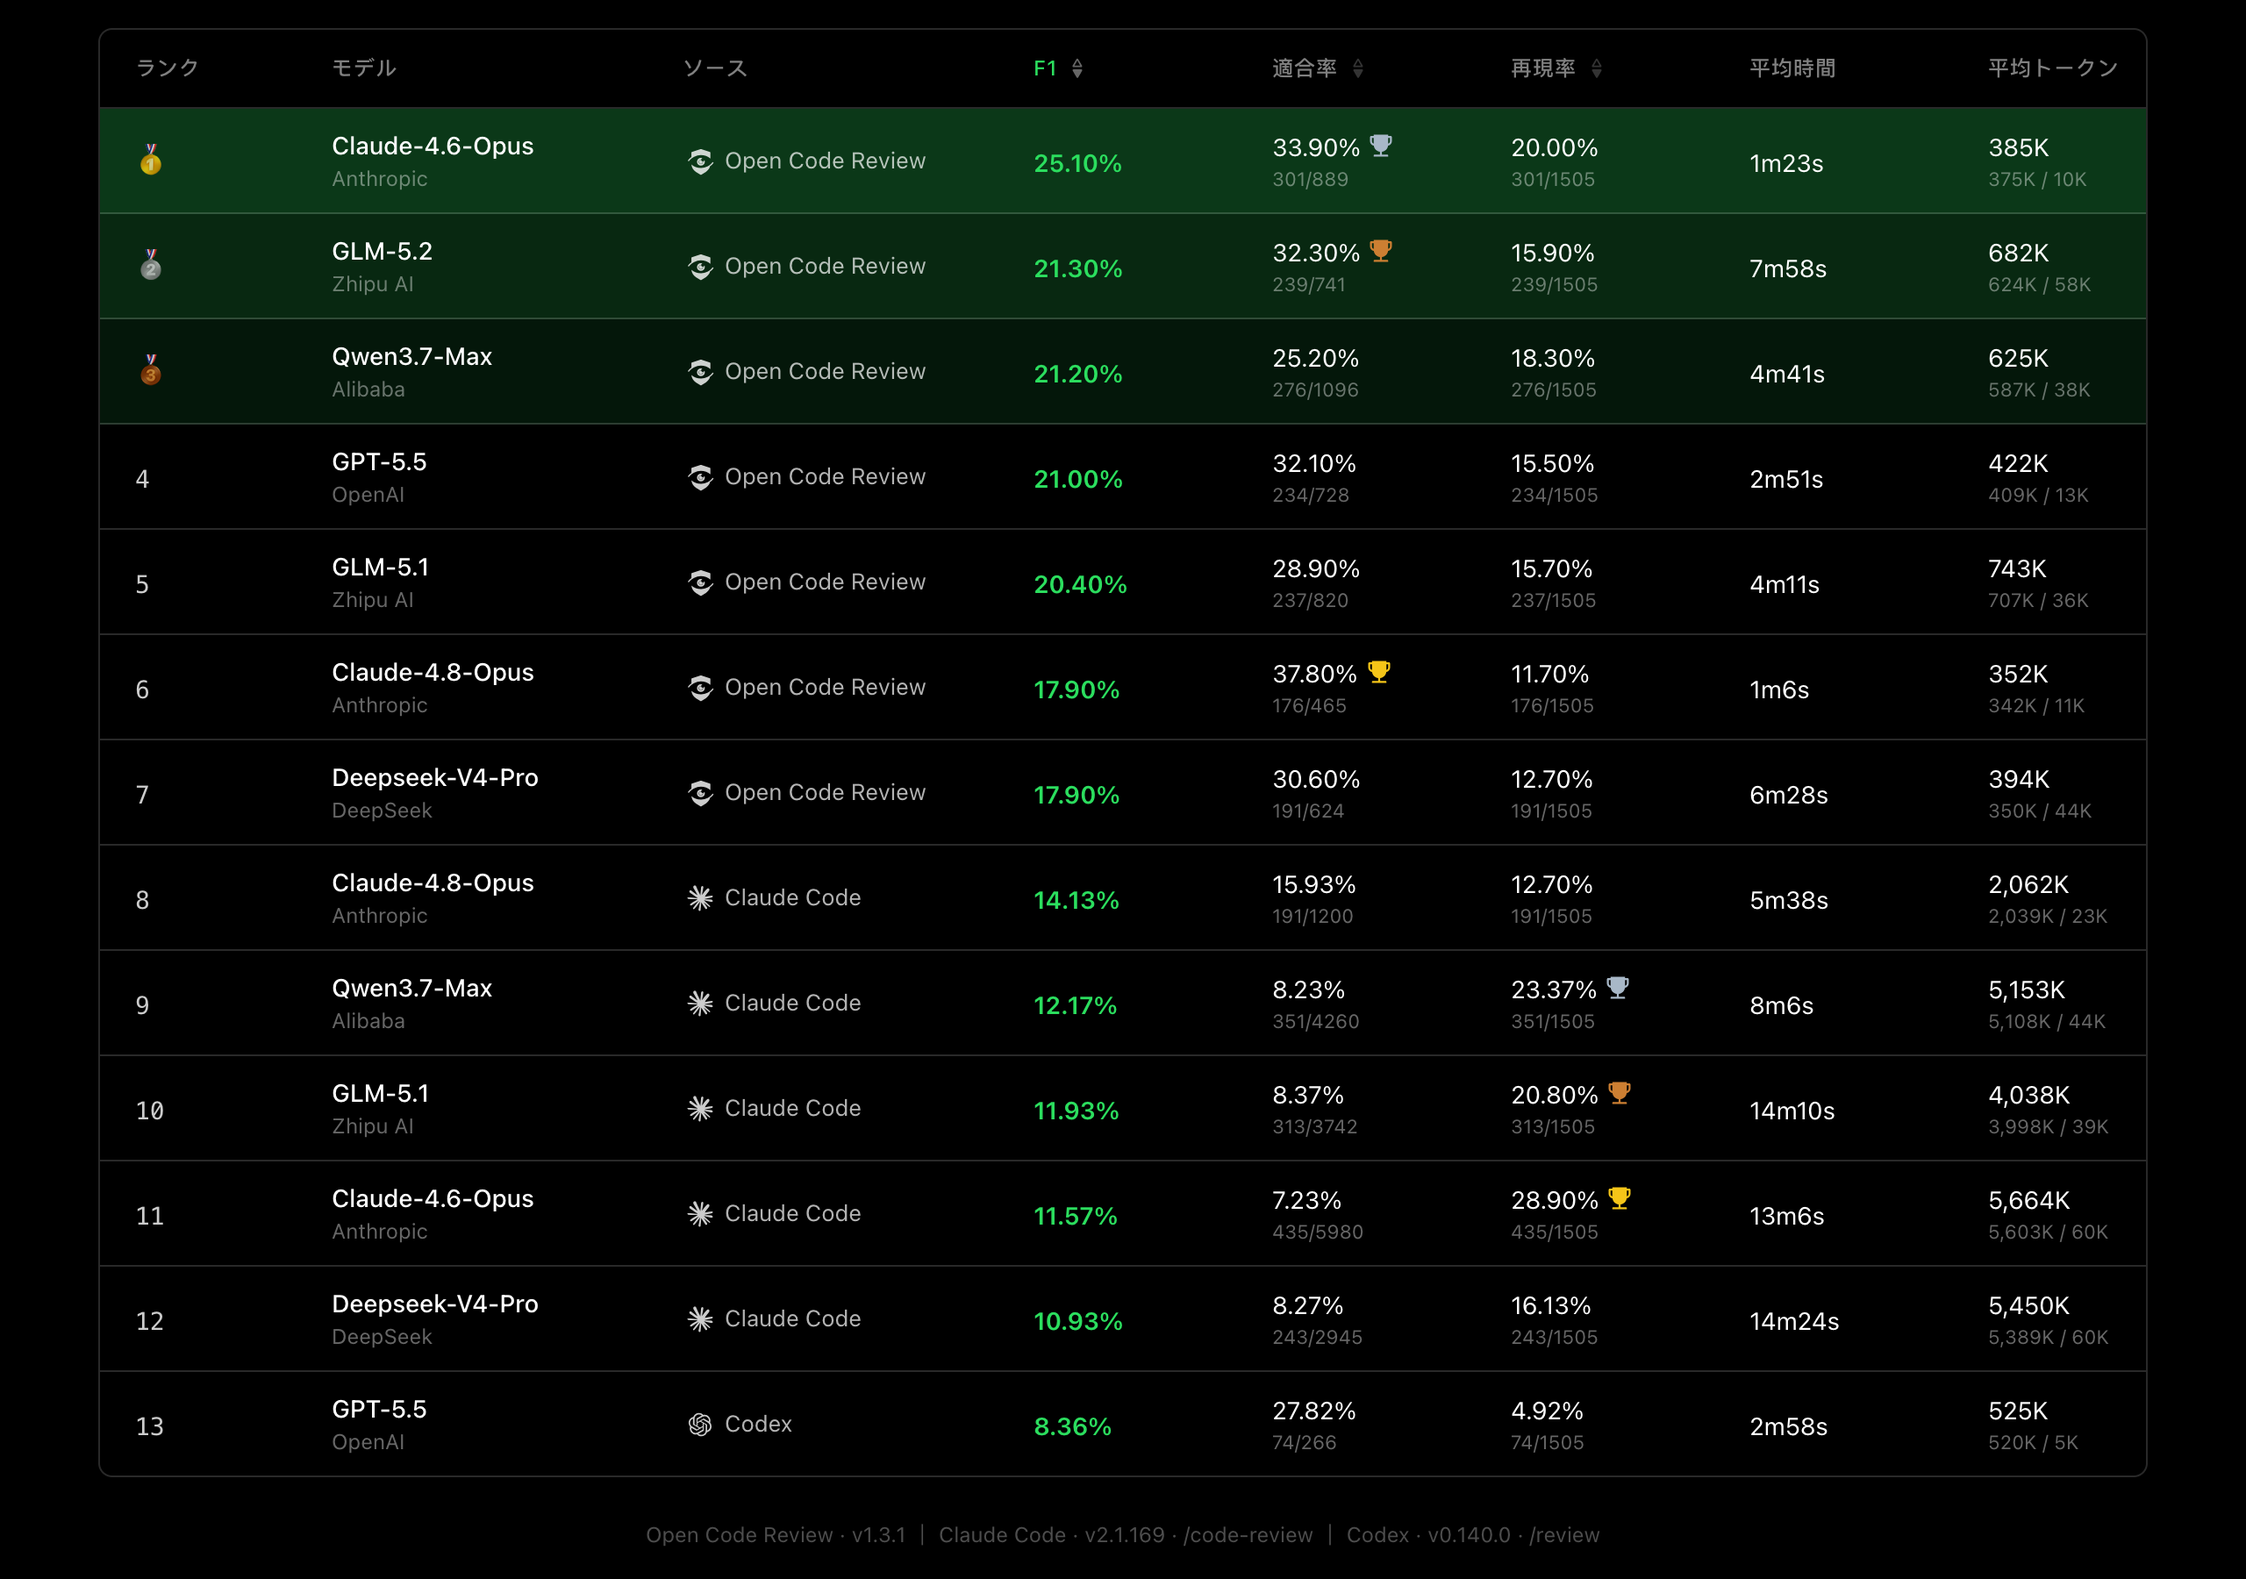
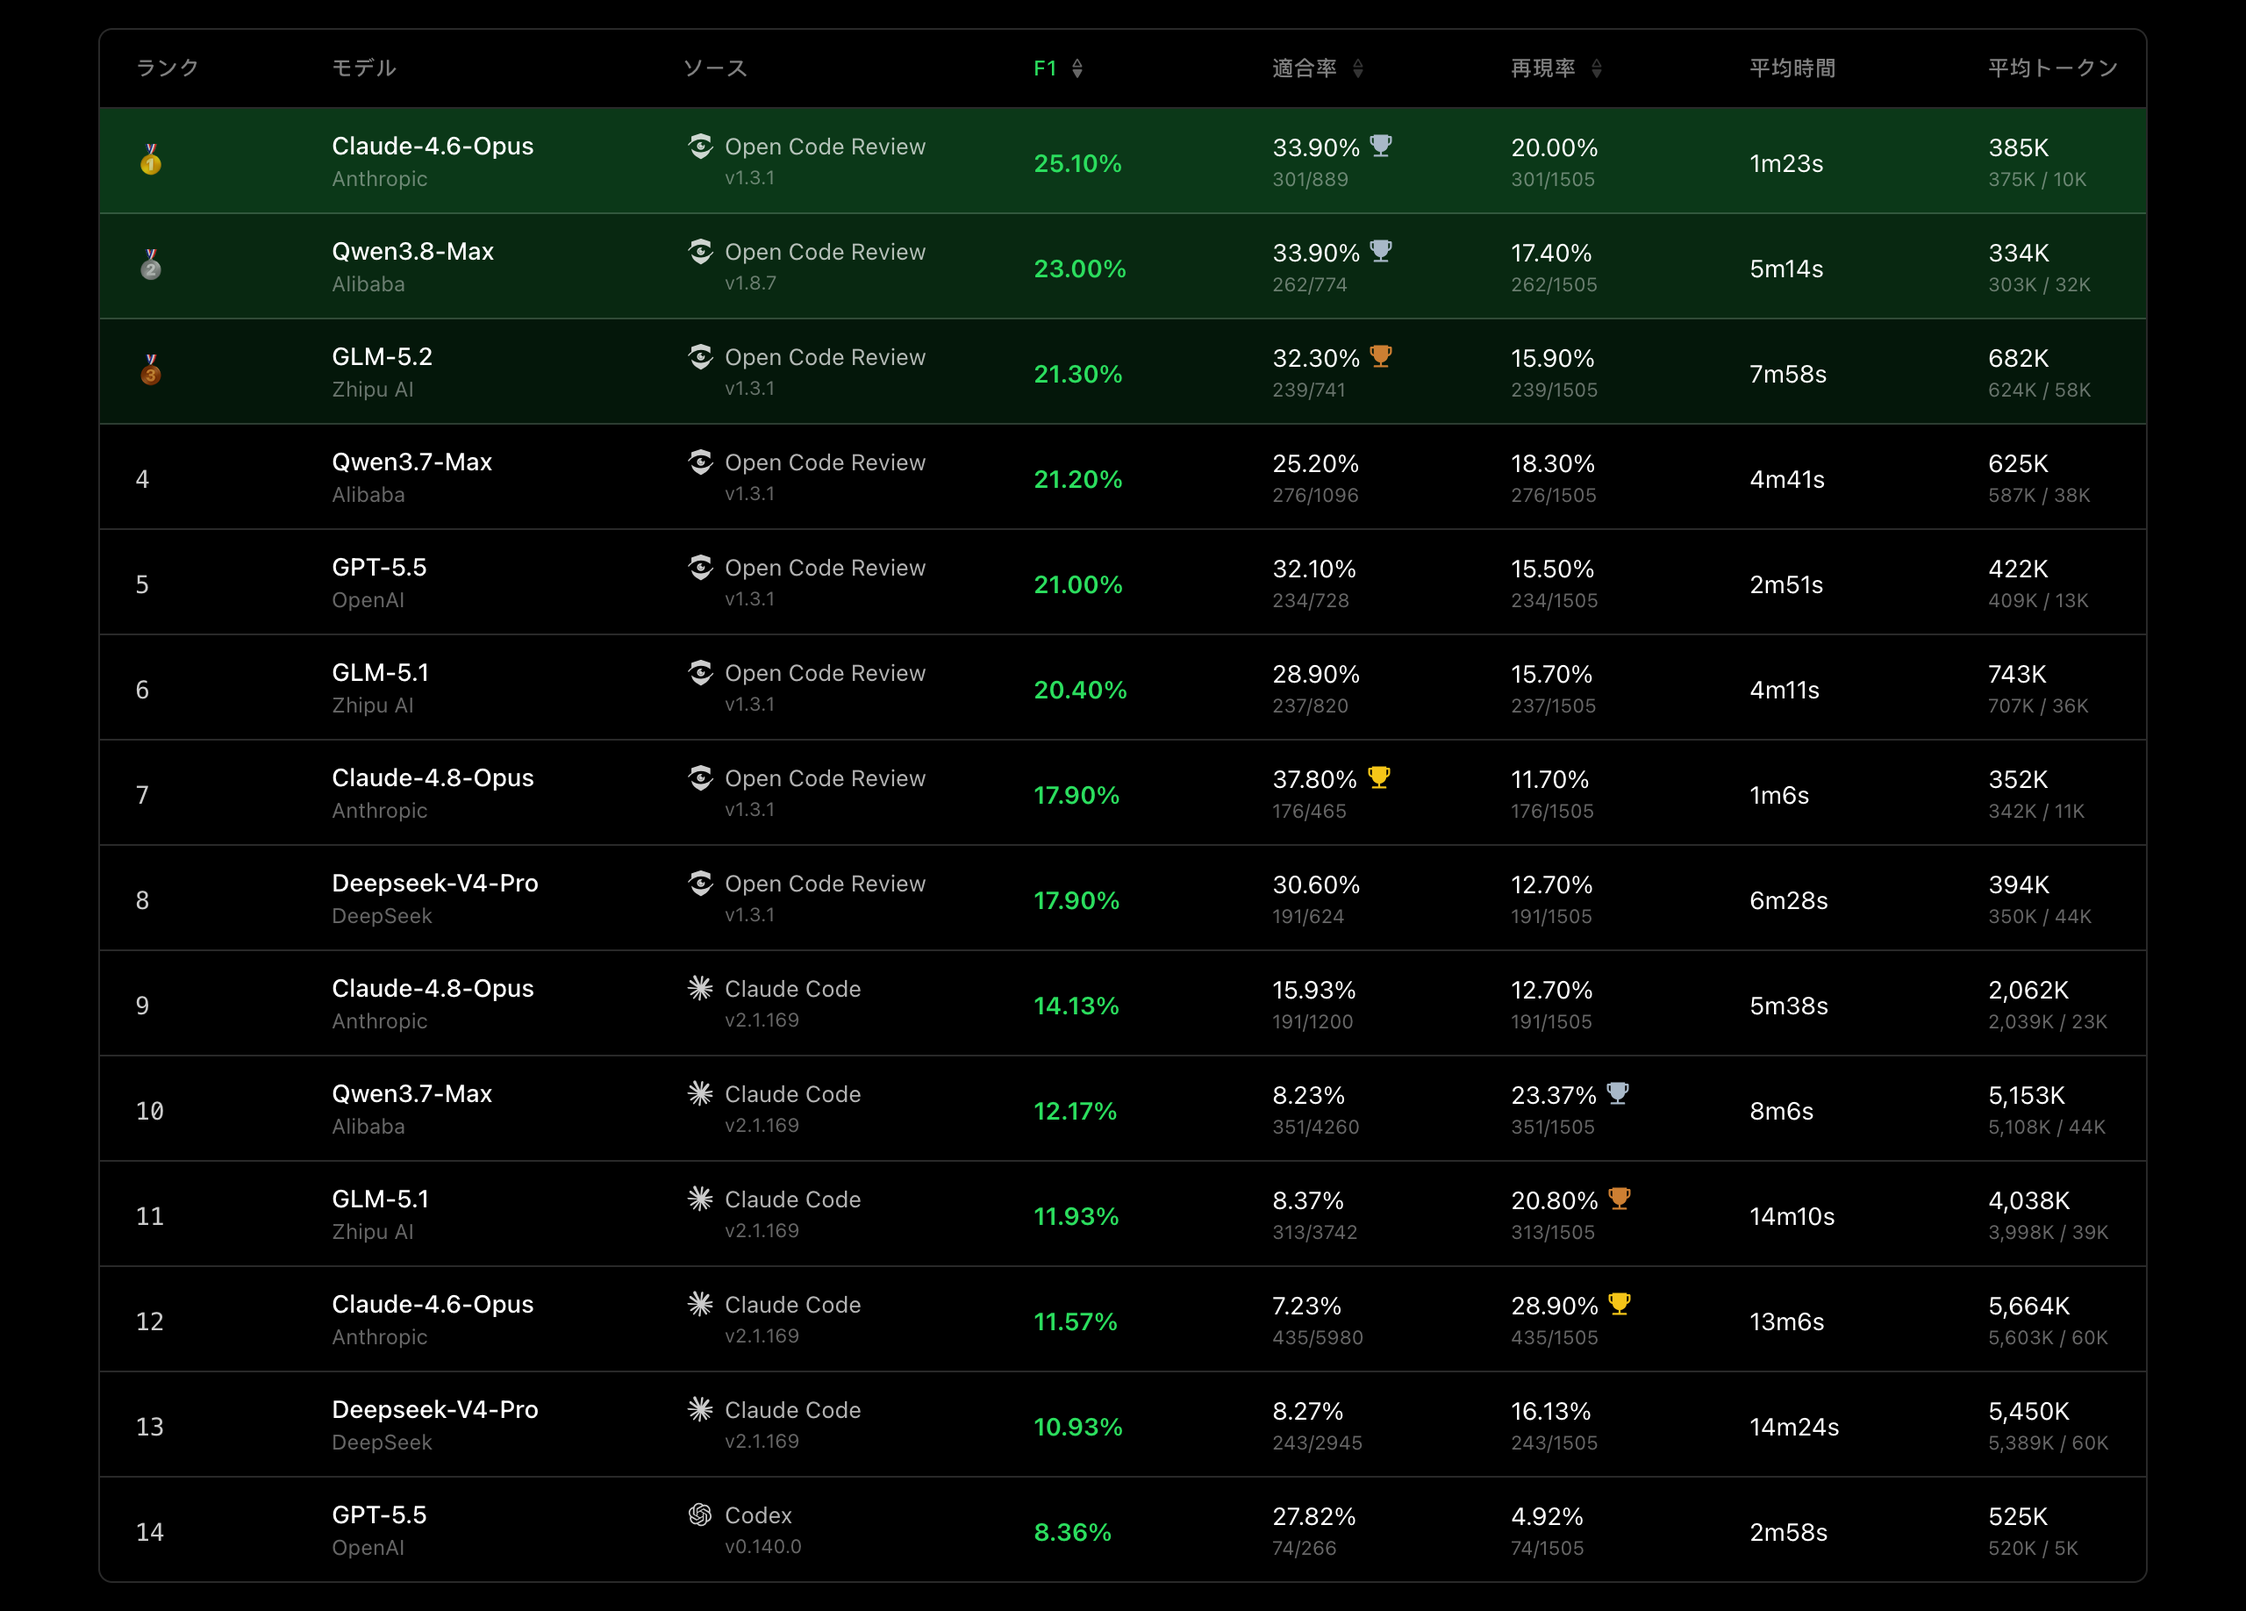
feat(benchmark): add Qwen3.8-Max results and show version inline per row (#726)
- Add Qwen3.8-Max (v1.8.7) benchmark entry with precision co-silver medal
- Move version info from footer into source column as sub-text
- Remove static footer note (version is now per-row)
- Update benchmark screenshots for en/zh/ja/ru

diff --git a/pages/src/components/BenchmarkSection.tsx b/pages/src/components/BenchmarkSection.tsx
@@ -17,6 +17,7 @@ interface BenchmarkRow {
   provider: string;
   source: string;
   sourceIcon?: string;
+  version: string;
   f1: string;
   f1Value: number;
   precision: string;
@@ -36,19 +37,20 @@ type SortField = 'f1' | 'precision' | 'recall';
 type SortOrder = 'desc' | 'asc';
 
 const rawRows: BenchmarkRow[] = [
-  { model: 'Claude-4.6-Opus', provider: 'Anthropic', source: 'Open Code Review', sourceIcon: ocrSourceIcon, f1: '25.10%', f1Value: 25.10, precision: '33.90%', precisionValue: 33.90, precisionDetail: '301/889', recall: '20.00%', recallValue: 20.00, recallDetail: '301/1505', avgTime: '1m23s', avgToken: '385K', tokenDetail: '375K / 10K', precisionMedal: 1 },
-  { model: 'GLM-5.2', provider: 'Zhipu AI', source: 'Open Code Review', sourceIcon: ocrSourceIcon, f1: '21.30%', f1Value: 21.30, precision: '32.30%', precisionValue: 32.30, precisionDetail: '239/741', recall: '15.90%', recallValue: 15.90, recallDetail: '239/1505', avgTime: '7m58s', avgToken: '682K', tokenDetail: '624K / 58K', precisionMedal: 2 },
-  { model: 'Qwen3.7-Max', provider: 'Alibaba', source: 'Open Code Review', sourceIcon: ocrSourceIcon, f1: '21.20%', f1Value: 21.20, precision: '25.20%', precisionValue: 25.20, precisionDetail: '276/1096', recall: '18.30%', recallValue: 18.30, recallDetail: '276/1505', avgTime: '4m41s', avgToken: '625K', tokenDetail: '587K / 38K' },
-  { model: 'GPT-5.5', provider: 'OpenAI', source: 'Open Code Review', sourceIcon: ocrSourceIcon, f1: '21.00%', f1Value: 21.00, precision: '32.10%', precisionValue: 32.10, precisionDetail: '234/728', recall: '15.50%', recallValue: 15.50, recallDetail: '234/1505', avgTime: '2m51s', avgToken: '422K', tokenDetail: '409K / 13K' },
-  { model: 'GLM-5.1', provider: 'Zhipu AI', source: 'Open Code Review', sourceIcon: ocrSourceIcon, f1: '20.40%', f1Value: 20.40, precision: '28.90%', precisionValue: 28.90, precisionDetail: '237/820', recall: '15.70%', recallValue: 15.70, recallDetail: '237/1505', avgTime: '4m11s', avgToken: '743K', tokenDetail: '707K / 36K' },
-  { model: 'Claude-4.8-Opus', provider: 'Anthropic', source: 'Open Code Review', sourceIcon: ocrSourceIcon, f1: '17.90%', f1Value: 17.90, precision: '37.80%', precisionValue: 37.80, precisionDetail: '176/465', recall: '11.70%', recallValue: 11.70, recallDetail: '176/1505', avgTime: '1m6s', avgToken: '352K', tokenDetail: '342K / 11K', precisionMedal: 0 },
-  { model: 'Deepseek-V4-Pro', provider: 'DeepSeek', source: 'Open Code Review', sourceIcon: ocrSourceIcon, f1: '17.90%', f1Value: 17.90, precision: '30.60%', precisionValue: 30.60, precisionDetail: '191/624', recall: '12.70%', recallValue: 12.70, recallDetail: '191/1505', avgTime: '6m28s', avgToken: '394K', tokenDetail: '350K / 44K' },
-  { model: 'Claude-4.8-Opus', provider: 'Anthropic', source: 'Claude Code', sourceIcon: claudeCodeIcon, f1: '14.13%', f1Value: 14.13, precision: '15.93%', precisionValue: 15.93, precisionDetail: '191/1200', recall: '12.70%', recallValue: 12.70, recallDetail: '191/1505', avgTime: '5m38s', avgToken: '2,062K', tokenDetail: '2,039K / 23K' },
-  { model: 'Qwen3.7-Max', provider: 'Alibaba', source: 'Claude Code', sourceIcon: claudeCodeIcon, f1: '12.17%', f1Value: 12.17, precision: '8.23%', precisionValue: 8.23, precisionDetail: '351/4260', recall: '23.37%', recallValue: 23.37, recallDetail: '351/1505', avgTime: '8m6s', avgToken: '5,153K', tokenDetail: '5,108K / 44K', recallMedal: 1 },
-  { model: 'GLM-5.1', provider: 'Zhipu AI', source: 'Claude Code', sourceIcon: claudeCodeIcon, f1: '11.93%', f1Value: 11.93, precision: '8.37%', precisionValue: 8.37, precisionDetail: '313/3742', recall: '20.80%', recallValue: 20.80, recallDetail: '313/1505', avgTime: '14m10s', avgToken: '4,038K', tokenDetail: '3,998K / 39K', recallMedal: 2 },
-  { model: 'Claude-4.6-Opus', provider: 'Anthropic', source: 'Claude Code', sourceIcon: claudeCodeIcon, f1: '11.57%', f1Value: 11.57, precision: '7.23%', precisionValue: 7.23, precisionDetail: '435/5980', recall: '28.90%', recallValue: 28.90, recallDetail: '435/1505', avgTime: '13m6s', avgToken: '5,664K', tokenDetail: '5,603K / 60K', recallMedal: 0 },
-  { model: 'Deepseek-V4-Pro', provider: 'DeepSeek', source: 'Claude Code', sourceIcon: claudeCodeIcon, f1: '10.93%', f1Value: 10.93, precision: '8.27%', precisionValue: 8.27, precisionDetail: '243/2945', recall: '16.13%', recallValue: 16.13, recallDetail: '243/1505', avgTime: '14m24s', avgToken: '5,450K', tokenDetail: '5,389K / 60K' },
-  { model: 'GPT-5.5', provider: 'OpenAI', source: 'Codex', sourceIcon: codexIcon, f1: '8.36%', f1Value: 8.36, precision: '27.82%', precisionValue: 27.82, precisionDetail: '74/266', recall: '4.92%', recallValue: 4.92, recallDetail: '74/1505', avgTime: '2m58s', avgToken: '525K', tokenDetail: '520K / 5K' },
+  { model: 'Claude-4.6-Opus', provider: 'Anthropic', source: 'Open Code Review', sourceIcon: ocrSourceIcon, version: 'v1.3.1', f1: '25.10%', f1Value: 25.10, precision: '33.90%', precisionValue: 33.90, precisionDetail: '301/889', recall: '20.00%', recallValue: 20.00, recallDetail: '301/1505', avgTime: '1m23s', avgToken: '385K', tokenDetail: '375K / 10K', precisionMedal: 1 },
+  { model: 'Qwen3.8-Max', provider: 'Alibaba', source: 'Open Code Review', sourceIcon: ocrSourceIcon, version: 'v1.8.7', f1: '23.00%', f1Value: 23.00, precision: '33.90%', precisionValue: 33.90, precisionDetail: '262/774', recall: '17.40%', recallValue: 17.40, recallDetail: '262/1505', avgTime: '5m14s', avgToken: '334K', tokenDetail: '303K / 32K', precisionMedal: 1 },
+  { model: 'GLM-5.2', provider: 'Zhipu AI', source: 'Open Code Review', sourceIcon: ocrSourceIcon, version: 'v1.3.1', f1: '21.30%', f1Value: 21.30, precision: '32.30%', precisionValue: 32.30, precisionDetail: '239/741', recall: '15.90%', recallValue: 15.90, recallDetail: '239/1505', avgTime: '7m58s', avgToken: '682K', tokenDetail: '624K / 58K', precisionMedal: 2 },
+  { model: 'Qwen3.7-Max', provider: 'Alibaba', source: 'Open Code Review', sourceIcon: ocrSourceIcon, version: 'v1.3.1', f1: '21.20%', f1Value: 21.20, precision: '25.20%', precisionValue: 25.20, precisionDetail: '276/1096', recall: '18.30%', recallValue: 18.30, recallDetail: '276/1505', avgTime: '4m41s', avgToken: '625K', tokenDetail: '587K / 38K' },
+  { model: 'GPT-5.5', provider: 'OpenAI', source: 'Open Code Review', sourceIcon: ocrSourceIcon, version: 'v1.3.1', f1: '21.00%', f1Value: 21.00, precision: '32.10%', precisionValue: 32.10, precisionDetail: '234/728', recall: '15.50%', recallValue: 15.50, recallDetail: '234/1505', avgTime: '2m51s', avgToken: '422K', tokenDetail: '409K / 13K' },
+  { model: 'GLM-5.1', provider: 'Zhipu AI', source: 'Open Code Review', sourceIcon: ocrSourceIcon, version: 'v1.3.1', f1: '20.40%', f1Value: 20.40, precision: '28.90%', precisionValue: 28.90, precisionDetail: '237/820', recall: '15.70%', recallValue: 15.70, recallDetail: '237/1505', avgTime: '4m11s', avgToken: '743K', tokenDetail: '707K / 36K' },
+  { model: 'Claude-4.8-Opus', provider: 'Anthropic', source: 'Open Code Review', sourceIcon: ocrSourceIcon, version: 'v1.3.1', f1: '17.90%', f1Value: 17.90, precision: '37.80%', precisionValue: 37.80, precisionDetail: '176/465', recall: '11.70%', recallValue: 11.70, recallDetail: '176/1505', avgTime: '1m6s', avgToken: '352K', tokenDetail: '342K / 11K', precisionMedal: 0 },
+  { model: 'Deepseek-V4-Pro', provider: 'DeepSeek', source: 'Open Code Review', sourceIcon: ocrSourceIcon, version: 'v1.3.1', f1: '17.90%', f1Value: 17.90, precision: '30.60%', precisionValue: 30.60, precisionDetail: '191/624', recall: '12.70%', recallValue: 12.70, recallDetail: '191/1505', avgTime: '6m28s', avgToken: '394K', tokenDetail: '350K / 44K' },
+  { model: 'Claude-4.8-Opus', provider: 'Anthropic', source: 'Claude Code', sourceIcon: claudeCodeIcon, version: 'v2.1.169', f1: '14.13%', f1Value: 14.13, precision: '15.93%', precisionValue: 15.93, precisionDetail: '191/1200', recall: '12.70%', recallValue: 12.70, recallDetail: '191/1505', avgTime: '5m38s', avgToken: '2,062K', tokenDetail: '2,039K / 23K' },
+  { model: 'Qwen3.7-Max', provider: 'Alibaba', source: 'Claude Code', sourceIcon: claudeCodeIcon, version: 'v2.1.169', f1: '12.17%', f1Value: 12.17, precision: '8.23%', precisionValue: 8.23, precisionDetail: '351/4260', recall: '23.37%', recallValue: 23.37, recallDetail: '351/1505', avgTime: '8m6s', avgToken: '5,153K', tokenDetail: '5,108K / 44K', recallMedal: 1 },
+  { model: 'GLM-5.1', provider: 'Zhipu AI', source: 'Claude Code', sourceIcon: claudeCodeIcon, version: 'v2.1.169', f1: '11.93%', f1Value: 11.93, precision: '8.37%', precisionValue: 8.37, precisionDetail: '313/3742', recall: '20.80%', recallValue: 20.80, recallDetail: '313/1505', avgTime: '14m10s', avgToken: '4,038K', tokenDetail: '3,998K / 39K', recallMedal: 2 },
+  { model: 'Claude-4.6-Opus', provider: 'Anthropic', source: 'Claude Code', sourceIcon: claudeCodeIcon, version: 'v2.1.169', f1: '11.57%', f1Value: 11.57, precision: '7.23%', precisionValue: 7.23, precisionDetail: '435/5980', recall: '28.90%', recallValue: 28.90, recallDetail: '435/1505', avgTime: '13m6s', avgToken: '5,664K', tokenDetail: '5,603K / 60K', recallMedal: 0 },
+  { model: 'Deepseek-V4-Pro', provider: 'DeepSeek', source: 'Claude Code', sourceIcon: claudeCodeIcon, version: 'v2.1.169', f1: '10.93%', f1Value: 10.93, precision: '8.27%', precisionValue: 8.27, precisionDetail: '243/2945', recall: '16.13%', recallValue: 16.13, recallDetail: '243/1505', avgTime: '14m24s', avgToken: '5,450K', tokenDetail: '5,389K / 60K' },
+  { model: 'GPT-5.5', provider: 'OpenAI', source: 'Codex', sourceIcon: codexIcon, version: 'v0.140.0', f1: '8.36%', f1Value: 8.36, precision: '27.82%', precisionValue: 27.82, precisionDetail: '74/266', recall: '4.92%', recallValue: 4.92, recallDetail: '74/1505', avgTime: '2m58s', avgToken: '525K', tokenDetail: '520K / 5K' },
 ];
 
 const MEDAL_RANKS = ['🥇', '🥈', '🥉'];
@@ -204,9 +206,12 @@ const BenchmarkSection: React.FC = () => {
                   <span style={{ color: 'rgba(255,255,255,0.4)', fontSize: 12 }}>{row.provider}</span>
                 </div>
                 {/* Source */}
-                <div style={{ width: 200, padding: '10px 12px', display: 'flex', alignItems: 'center', gap: 4 }}>
-                  {row.sourceIcon && <img src={row.sourceIcon} alt="" style={{ width: 20, height: 20 }} />}
-                  <span style={{ color: 'rgba(255,255,255,0.7)', fontSize: 13 }}>{row.source}</span>
+                <div style={{ width: 200, padding: '10px 12px', display: 'flex', flexDirection: 'column' }}>
+                  <div style={{ display: 'flex', alignItems: 'center', gap: 4 }}>
+                    {row.sourceIcon && <img src={row.sourceIcon} alt="" style={{ width: 20, height: 20 }} />}
+                    <span style={{ color: 'rgba(255,255,255,0.7)', fontSize: 13 }}>{row.source}</span>
+                  </div>
+                  <span style={{ color: 'rgba(255,255,255,0.4)', fontSize: 11, marginLeft: 24 }}>{row.version}</span>
                 </div>
                 {/* F1 */}
                 <div style={{ flex: 1, padding: '10px 12px' }}>
@@ -247,11 +252,6 @@ const BenchmarkSection: React.FC = () => {
             );
           })}
         </div>
-
-        {/* Footer note */}
-        <p style={{ color: 'rgba(255,255,255,0.3)', fontSize: 12, textAlign: 'center', margin: 0, marginTop: -24 }}>
-          Open Code Review · v1.3.1 ｜ Claude Code · v2.1.169 · /code-review ｜ Codex · v0.140.0 · /review
-        </p>
       </div>
     </section>
   );
